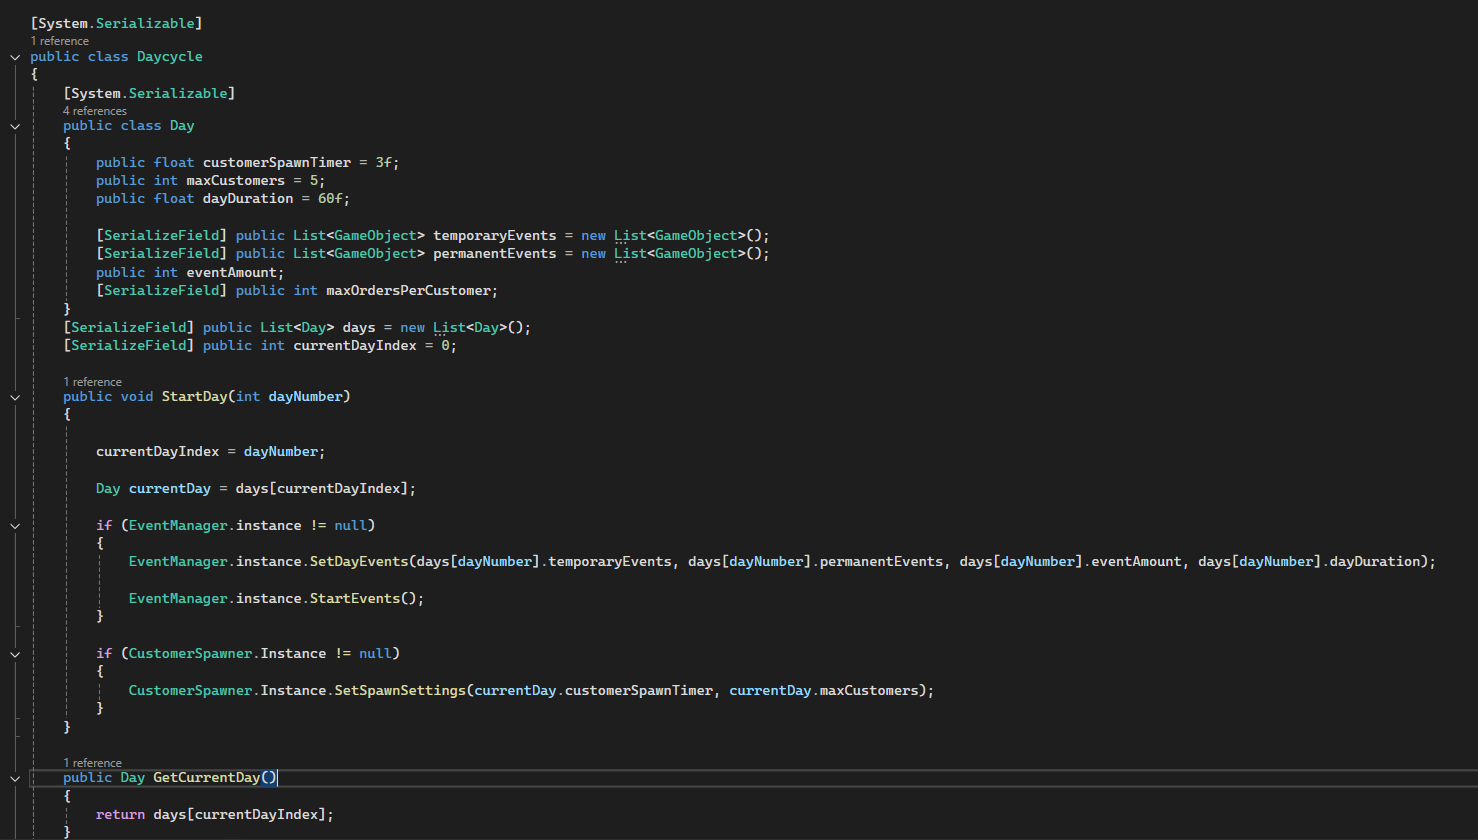
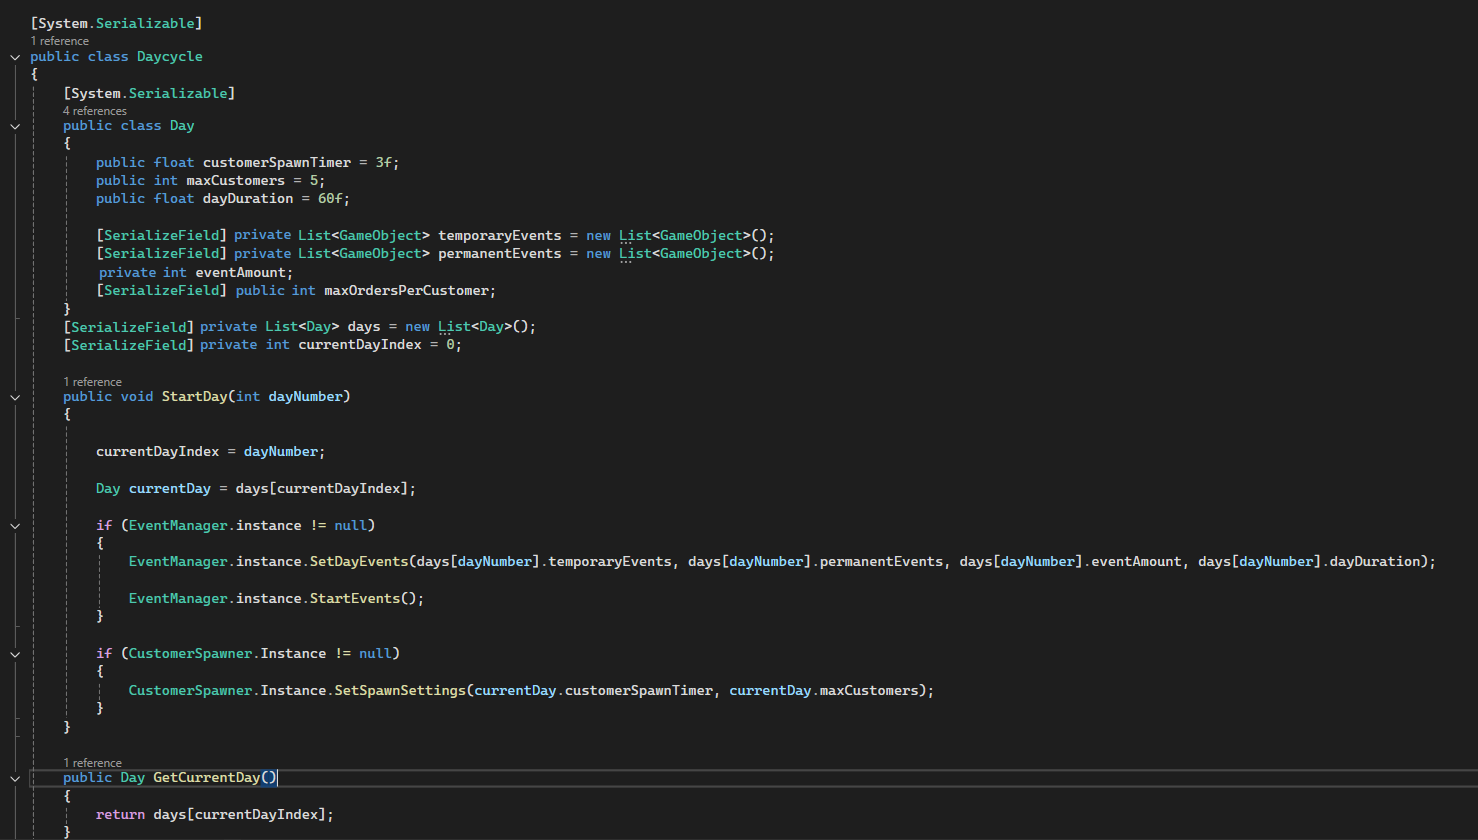
Changed first project with last project

Changed region(s): [[0.1245, 0.3405, 0.3735, 0.4333], [0.0622, 0.2786, 0.5291, 0.3405]]

diff --git a/index.html b/index.html
@@ -60,12 +60,14 @@
             <div class="carousel-container">
             <button class="carousel-btn prev">&#10094</button>
             <div class="carousel-track">
-                <div class="project-card" data.target="project1-detail"
-                data-title="Cooking Sandra"
-                data-description="In this game you play as a chef named Sandra. While playing you get orders which each have a time limit, and based on how fast you complete the orders you get points. You can complete orders by preparing ingredients by playing various minigames."
-                data-video="videos/video1.mp4"
+                <div class="project-card" data.target="project5-detail"
+                data-title="CATastrophe Cafe"
+                data-description="CATastrophe Cafe is a game where you play as a barrista, in a cafe where you have to serve customers. You can make drinks and unlock more recipes as you progress. The game is based on a time limit per day and the full game takes place in a week. Each day has its own events which makes the game more chaotic. <br> <br>
+                Personal Work <br>
+                Player, Physics Grabbing, GameLoop, Day/Week System in Gamemanager, Customer Behaviour, Fire/Rushhour Event" 
+                data-video="videos/Temp_Video.mp4"
                 data-target="project1-detail">
-                    <img src="images/Sandra.png" alt="Project 1">
+                 <img src="images/CatastrophyLogo.png" alt="Project 5">
                 </div>
                 <div class="project-card" data.target="project2-detail"
                 data-title="Diner Disaster"
@@ -100,15 +102,12 @@
                 data-target="project1-detail">
                     <img src="https://img.itch.zone/aW1nLzE1NjM1MDMwLnBuZw==/original/E%2BVc%2Fz.png" alt="Project 4">
                 </div>
-                                <div class="project-card" data.target="project5-detail"
-                data-title="CATastrophe Cafe"
-                data-description="CATastrophe Cafe is a game where you play as a barrista, in a cafe where you have to serve customers. You can make drinks and unlock more recipes as you progress. The game is based on a time limit per day and the full game takes place in a week. Each day has its own events which makes the game more chaotic. <br> <br>
-                Personal Work <br>
-                Player, Physics Grabbing, GameLoop, Day/Week System in Gamemanager, Customer Behaviour, Fire/Rushhour Event" 
-                data-video="videos/Temp_Video.mp4"
+                 <div class="project-card" data.target="project1-detail"
+                data-title="Cooking Sandra"
+                data-description="In this game you play as a chef named Sandra. While playing you get orders which each have a time limit, and based on how fast you complete the orders you get points. You can complete orders by preparing ingredients by playing various minigames."
+                data-video="videos/video1.mp4"
                 data-target="project1-detail">
-
-                    <img src="images/CatastrophyLogo.png" alt="Project 5">
+                <img src="images/Sandra.png" alt="Project 1">
                 </div>
             </div>
             <button class="carousel-btn next">&#10095</button>
@@ -206,9 +205,10 @@ document.addEventListener('DOMContentLoaded', () => {
   // Media data (add images/videos here for each project)
   const mediaData = [
     [ // Project 1
-      { type: 'youtube', src: 'https://www.youtube.com/embed/ZRwRrXA0m1k?autoplay=1&mute=1%22%3E' },
-      { type: 'image', src: 'images/OrdersSandra.png' },
-      { type: 'image', src: 'images/BurnedPanSandra.png' },
+      { type: 'youtube', src: 'https://www.youtube.com/embed/hZCPNBwWg1Y?autoplay=1&mute=1%22%3E ' },
+      { type: 'image', src: 'https://img.itch.zone/aW1hZ2UvMzY4OTg3NS8yMTk4NjUwMC5qcGc=/original/D3UX3n.jpg' },
+      { type: 'image', src: 'https://img.itch.zone/aW1hZ2UvMzY4OTg3NS8yMTk4NjQ5OC5qcGc=/original/Prs5Mq.jpg' },
+      { type: 'image', src: 'https://img.itch.zone/aW1hZ2UvMzY4OTg3NS8yMTk4NjQ5OS5qcGc=/original/TccwN%2F.jpg' },
     ],
     [ // Project 2
       { type: 'youtube', src: 'https://www.youtube.com/embed/Sm2x2u5IcpQ?autoplay=1&mute=1%22%3E' },
@@ -231,18 +231,17 @@ document.addEventListener('DOMContentLoaded', () => {
     ],
     [
       //Project 5
-      { type: 'youtube', src: 'https://www.youtube.com/embed/hZCPNBwWg1Y?autoplay=1&mute=1%22%3E ' },
-      { type: 'image', src: 'https://img.itch.zone/aW1hZ2UvMzY4OTg3NS8yMTk4NjUwMC5qcGc=/original/D3UX3n.jpg' },
-      { type: 'image', src: 'https://img.itch.zone/aW1hZ2UvMzY4OTg3NS8yMTk4NjQ5OC5qcGc=/original/Prs5Mq.jpg' },
-      { type: 'image', src: 'https://img.itch.zone/aW1hZ2UvMzY4OTg3NS8yMTk4NjQ5OS5qcGc=/original/TccwN%2F.jpg' },
+      { type: 'youtube', src: 'https://www.youtube.com/embed/ZRwRrXA0m1k?autoplay=1&mute=1%22%3E' },
+      { type: 'image', src: 'images/OrdersSandra.png' },
+      { type: 'image', src: 'images/BurnedPanSandra.png' },
     ]
   ];
 
   const projectScreenshots = [
     [ // Project 1
-      'images/SandraCodeOrderCard.png',
-      'images/SandraCodeOrderManager.png',
-      'images/SandraCodeLineGenerator.png',
+      'images/CafeCodeDay.png',
+      'images/CafeCodeGrabCup.png',
+      'images/CafeCodeFireEvent.png',
     ],
     [ // Project 2
       'images/TwinstickBulletCode.png',
@@ -256,18 +255,18 @@ document.addEventListener('DOMContentLoaded', () => {
     [ // Project 4
       'images/SCHMUPEnemyCode.png',
     ],
-        [ // Project 5
-      'images/CafeCodeDay.png',
-      'images/CafeCodeGrabCup.png',
-      'images/CafeCodeFireEvent.png',
+    [ // Project 5
+      'images/SandraCodeOrderCard.png',
+      'images/SandraCodeOrderManager.png',
+      'images/SandraCodeLineGenerator.png',
     ]
   ]
 
   const screenshotDescription = [
     [
-    "This is the code for the ordercard setup, which is used for the values on the ordercard.",
-    "This is that creates the order, it chooses a random order from a list of scriptable objects and then sets the position of the ordercard so that they don't overlap. When an order is completed it calls the CompleteOrder function and then it removes the ordercard from the list and the position will be reset so it fits well.",
-    "This is the code that generated the line on an ingredient at the cutting-minigame. It uses a line render to display two lines vertically on the ingredient. It also checks if the lines don't overlap with eachother with the do-while looop.",
+    "This is the code for the day system in the cafe, here i can set all the values for each day in the inspector because its a Serializable class.",
+    "This is the code for the cup grabbing, it uses a raycast to check if the player is looking at a cup and then it will grab it and place it in the players hand. It will have a physics like feeling when you hold it because it uses different ascpects of the rigidbody.",
+    "This is the code for the fire event, the coroutine checks with a layer if an object with a collider is burnable, and if it is, it will add the component and it will reactive the startfire function This way it spreads out around it.",
   ],
   [
     "This is the code for the bullet, based on what collides with the bullet, it does something different. If the explosiveBullet bool is true, the bullet will do damage around it.",
@@ -283,34 +282,36 @@ document.addEventListener('DOMContentLoaded', () => {
     "This is the code for one of the enemies, this enemy moves in a wave pattern and shoots the player when it is close enough.",
   ],
   [
-    "This is the code for the day system in the cafe, here i can set all the values for each day in the inspector because its a Serializable class.",
-    "This is the code for the cup grabbing, it uses a raycast to check if the player is looking at a cup and then it will grab it and place it in the players hand. It will have a physics like feeling when you hold it because it uses different ascpects of the rigidbody.",
-    "This is the code for the fire event, the coroutine checks with a layer if an object with a collider is burnable, and if it is, it will add the component and it will reactive the startfire function This way it spreads out around it.",
+    "This is the code for the ordercard setup, which is used for the values on the ordercard.",
+    "This is that creates the order, it chooses a random order from a list of scriptable objects and then sets the position of the ordercard so that they don't overlap. When an order is completed it calls the CompleteOrder function and then it removes the ordercard from the list and the position will be reset so it fits well.",
+    "This is the code that generated the line on an ingredient at the cutting-minigame. It uses a line render to display two lines vertically on the ingredient. It also checks if the lines don't overlap with eachother with the do-while looop.",
   ]
   ]
 
 
   const githubLinks = [
-    'https://github.com/Fristey/CookingSandra/tree/main/Assets/Scripts',
+    'https://github.com/Fristey/Depresso/tree/main/Assets/Devs/Akash/Scripts',
     'https://github.com/GLU-Gaming/twinstick-2024-Wrong-Order-Studios/tree/master/Assets/Developers/Akash/Scripts',
     'https://github.com/Fristey/Roguelike/tree/main/Assets/Rogue%20Base%20Project/Scripts',
     'https://github.com/GLU-Gaming/shmup-2024-team-13-keettie-gang/tree/main/Assets/Scripts',
-    'https://github.com/Fristey/Depresso/tree/main/Assets/Devs/Akash/Scripts'];
+    'https://github.com/Fristey/CookingSandra/tree/main/Assets/Scripts'];
     
     const itchLinks = [
-      'https://fristey.itch.io/cooking-sandra',
+      'https://dark-knight8092.itch.io/catastrophy-cafe',
       'https://glitchpower64.itch.io/diner-disaster',
       'https://github.com/Fristey/CookingSandra/tree/main/Assets/Scripts',
       'https://joy888.itch.io/eldritch-madness',
-      'https://dark-knight8092.itch.io/catastrophy-cafe'
+      'https://fristey.itch.io/cooking-sandra'
+      
     ];
 
   const screenshotHeaders = [
-  "Cooking Sandra – Code Snippets",
+  
+  "CATastrophe Cafe – Code Snippets",
   "Diner Disaster – Code Snippets",
   "Roguelike – Code Snippets",
   "Eldritch Madness – Code Snippets",
-  "CATastrophe Cafe – Code Snippets",
+  ,"Cooking Sandra – Code Snippets"
 ];
 
 
